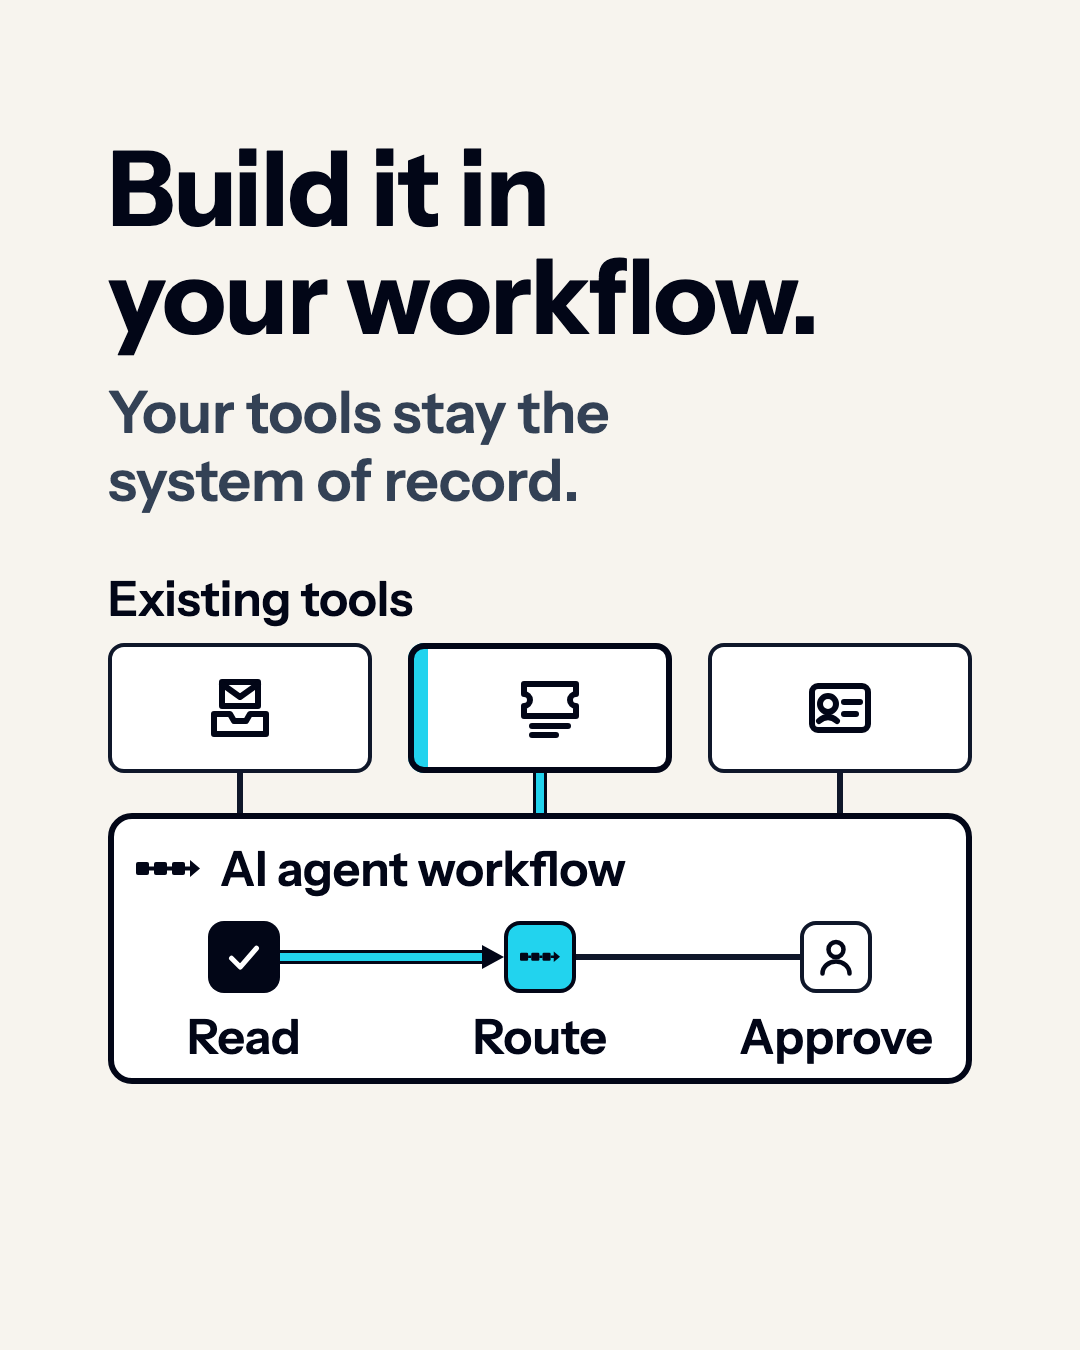
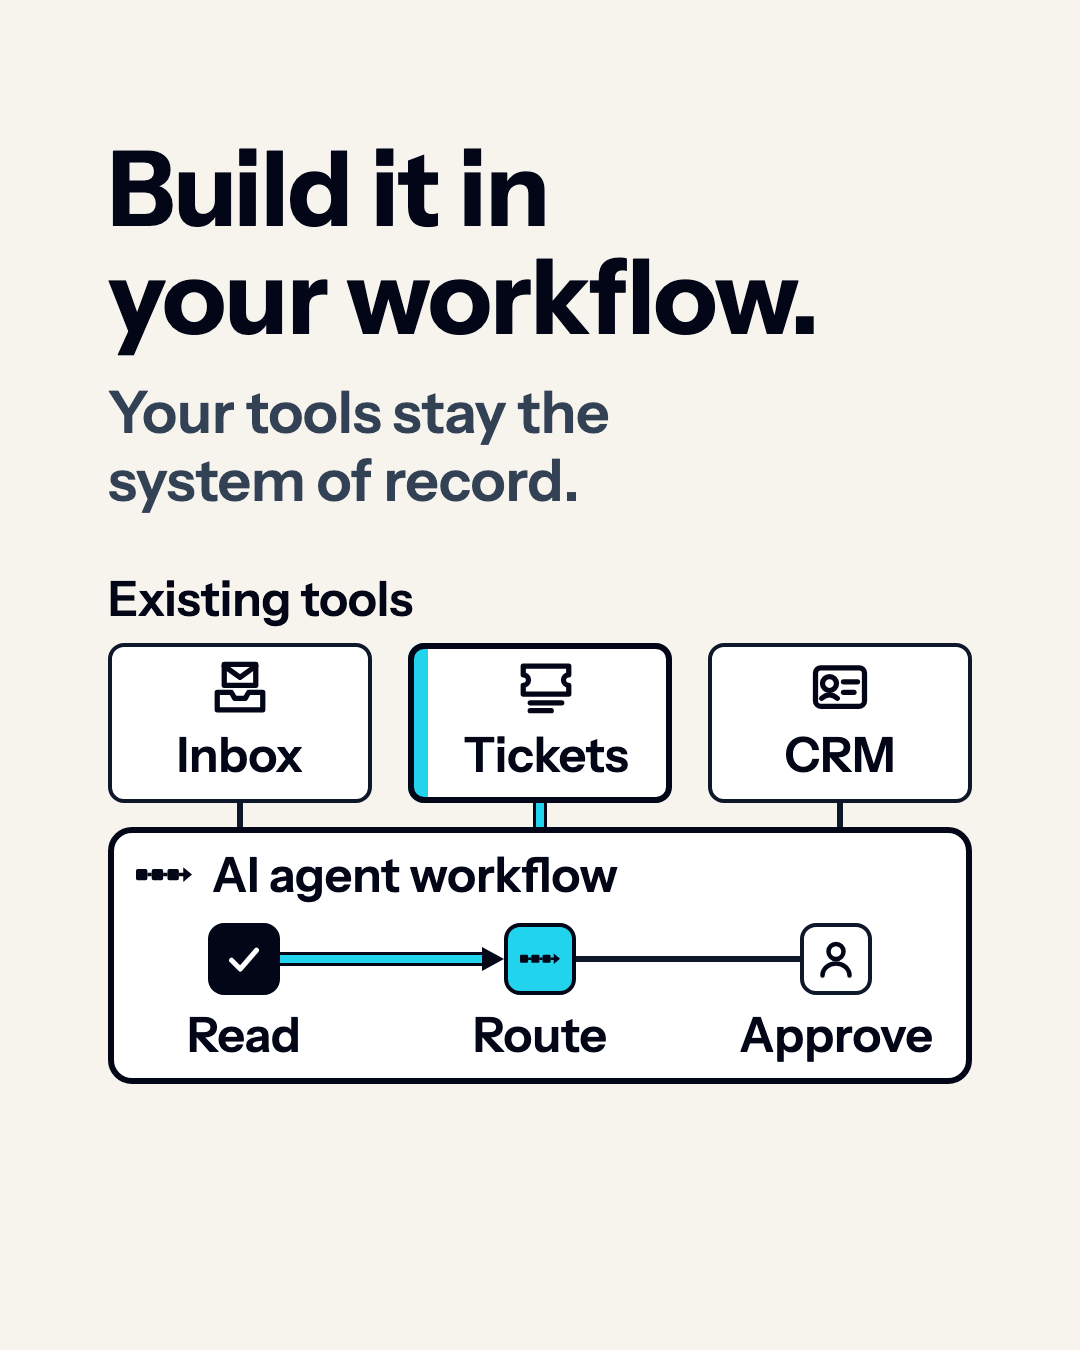
feat(eval): CRO-6814 apply optional finish-gate notes to beats 1, 4, 6, 7
Claude-Session: https://claude.ai/code/session_01UuCD5xwM5HC2Hw9vjdRFK7

diff --git a/content-motion/ai-agent-implementation-explainer-30s/index.html b/content-motion/ai-agent-implementation-explainer-30s/index.html
@@ -48,13 +48,14 @@ const BEATS = [
   { id: "c3g", k: "glyph", g: "crm", x: 136, y: 975, s: 64 },
   { id: "c3l", k: "text", st: "label", col: "ink", lines: ["CRM"], x: 216, y: 979, w: 304, h: 56 },
   { id: "c3w", k: "chip", state: "default", x: 528, y: 979, w: 56, h: 56 },
-  { id: "spine", k: "line", style: "manual", pts: [[630, 639], [630, 1007]], joins: ["a1", "a2", "a3", "link"] },
+  { id: "spine", k: "line", style: "manual", pts: [[630, 639], [630, 979]], joins: ["a1", "a2", "a3", "link"] },
   { id: "a1", k: "line", style: "manual", pts: [[630, 639], [612, 639]], arrow: true, joins: ["spine", "link"] },
   { id: "a2", k: "line", style: "manual", pts: [[630, 823], [612, 823]], arrow: true, joins: ["spine"] },
-  { id: "a3", k: "line", style: "manual", pts: [[630, 1007], [612, 1007]], arrow: true, joins: ["spine"] },
+  { id: "a3", k: "line", style: "manual", pts: [[630, 979], [612, 979]], arrow: true, joins: ["spine"] },
   { id: "link", k: "line", style: "manual", pts: [[630, 731], [738, 731]], joins: ["spine", "a1"] },
   { id: "p", k: "person", x: 738, y: 671, d: 120 },
   { id: "ag", k: "card", state: "active", x: 648, y: 899, w: 324, h: 180, at: 72, dur: 24 },
+  { id: "agc", k: "line", style: "agent", pts: [[648, 1039], [612, 1039]], arrow: true, at: 72, dur: 24, joins: ["c3", "ag"] },
   { id: "agg", k: "glyph", g: "chain", x: 692, y: 923, s: 56, at: 72, dur: 24 },
   { id: "agl", k: "text", st: "label", col: "ink", lines: ["AI agent"], x: 692, y: 993, w: 260, h: 56, at: 72, dur: 24 }
  ]},
@@ -107,26 +108,29 @@ const BEATS = [
   { id: "h", k: "text", st: "h1", col: "ink", lines: ["Build it in", "your workflow."], x: 108, y: 135, w: 864, h: 224 },
   { id: "s", k: "text", st: "support", col: "slate", lines: ["Your tools stay the", "system of record."], x: 108, y: 379, w: 864, h: 136, at: 18 },
   { id: "el", k: "text", st: "label", col: "ink", lines: ["Existing tools"], x: 108, y: 571, w: 864, h: 56 },
-  { id: "t1", k: "card", state: "default", r: 16, x: 108, y: 643, w: 264, h: 130 },
-  { id: "t1g", k: "glyph", g: "inbox", x: 208, y: 676, s: 64 },
-  { id: "t2", k: "card", state: "active", r: 16, x: 408, y: 643, w: 264, h: 130 },
-  { id: "t2g", k: "glyph", g: "ticket", x: 518, y: 676, s: 64 },
-  { id: "t3", k: "card", state: "default", r: 16, x: 708, y: 643, w: 264, h: 130 },
-  { id: "t3g", k: "glyph", g: "crm", x: 808, y: 676, s: 64 },
-  { id: "sb1", k: "line", style: "plain", pts: [[240, 773], [240, 813]] },
-  { id: "sb2", k: "line", style: "agent", pts: [[540, 773], [540, 813]] },
-  { id: "sb3", k: "line", style: "plain", pts: [[840, 773], [840, 813]] },
-  { id: "wf", k: "card", state: "strong", x: 108, y: 813, w: 864, h: 271 },
-  { id: "wfg", k: "glyph", g: "chain", x: 136, y: 837, s: 64 },
-  { id: "wfl", k: "text", st: "label", col: "ink", lines: ["AI agent workflow"], x: 220, y: 841, w: 700, h: 56 },
-  { id: "p12", k: "line", style: "agent", pts: [[280, 957], [504, 957]], arrow: true },
-  { id: "p23", k: "line", style: "plain", pts: [[576, 957], [800, 957]] },
-  { id: "s1", k: "step", v: "done", x: 208, y: 921, s: 72 },
-  { id: "s2", k: "step", v: "active", x: 504, y: 921, s: 72 },
-  { id: "s3", k: "step", v: "future", x: 800, y: 921, s: 72 },
-  { id: "s1l", k: "text", st: "label", col: "ink", al: "center", lines: ["Read"], x: 118, y: 1009, w: 252, h: 56 },
-  { id: "s2l", k: "text", st: "label", col: "ink", al: "center", lines: ["Route"], x: 414, y: 1009, w: 252, h: 56 },
-  { id: "s3l", k: "text", st: "label", col: "ink", al: "center", lines: ["Approve"], x: 710, y: 1009, w: 252, h: 56 }
+  { id: "t1", k: "card", state: "default", r: 16, x: 108, y: 643, w: 264, h: 160 },
+  { id: "t1g", k: "glyph", g: "inbox", x: 212, y: 659, s: 56 },
+  { id: "t1l", k: "text", st: "label", col: "ink", al: "center", lines: ["Inbox"], x: 128, y: 727, w: 224, h: 56 },
+  { id: "t2", k: "card", state: "active", r: 16, x: 408, y: 643, w: 264, h: 160 },
+  { id: "t2g", k: "glyph", g: "ticket", x: 518, y: 659, s: 56 },
+  { id: "t2l", k: "text", st: "label", col: "ink", al: "center", lines: ["Tickets"], x: 436, y: 727, w: 220, h: 56 },
+  { id: "t3", k: "card", state: "default", r: 16, x: 708, y: 643, w: 264, h: 160 },
+  { id: "t3g", k: "glyph", g: "crm", x: 812, y: 659, s: 56 },
+  { id: "t3l", k: "text", st: "label", col: "ink", al: "center", lines: ["CRM"], x: 728, y: 727, w: 224, h: 56 },
+  { id: "sb1", k: "line", style: "plain", pts: [[240, 803], [240, 827]] },
+  { id: "sb2", k: "line", style: "agent", pts: [[540, 803], [540, 827]] },
+  { id: "sb3", k: "line", style: "plain", pts: [[840, 803], [840, 827]] },
+  { id: "wf", k: "card", state: "strong", x: 108, y: 827, w: 864, h: 257 },
+  { id: "wfg", k: "glyph", g: "chain", x: 136, y: 847, s: 56 },
+  { id: "wfl", k: "text", st: "label", col: "ink", lines: ["AI agent workflow"], x: 212, y: 847, w: 700, h: 56 },
+  { id: "p12", k: "line", style: "agent", pts: [[280, 959], [504, 959]], arrow: true },
+  { id: "p23", k: "line", style: "plain", pts: [[576, 959], [800, 959]] },
+  { id: "s1", k: "step", v: "done", x: 208, y: 923, s: 72 },
+  { id: "s2", k: "step", v: "active", x: 504, y: 923, s: 72 },
+  { id: "s3", k: "step", v: "future", x: 800, y: 923, s: 72 },
+  { id: "s1l", k: "text", st: "label", col: "ink", al: "center", lines: ["Read"], x: 118, y: 1007, w: 252, h: 56 },
+  { id: "s2l", k: "text", st: "label", col: "ink", al: "center", lines: ["Route"], x: 414, y: 1007, w: 252, h: 56 },
+  { id: "s3l", k: "text", st: "label", col: "ink", al: "center", lines: ["Approve"], x: 710, y: 1007, w: 252, h: 56 }
  ]},
  { n: 5, start: 900, end: 1140, mid: 1020, blocks: [
   { id: "h", k: "text", st: "h1", col: "ink", lines: ["Test it on", "real work."], x: 108, y: 135, w: 864, h: 224 },
@@ -153,58 +157,58 @@ const BEATS = [
   { id: "h", k: "text", st: "h1", col: "ink", lines: ["Live in"], x: 108, y: 135, w: 864, h: 108 },
   { id: "hx", k: "text", st: "h1xl", col: "ink", lines: ["2 to 6", "weeks."], x: 108, y: 251, w: 864, h: 368 },
   { id: "s", k: "text", st: "support", col: "slate", lines: ["One process, tested", "before launch."], x: 108, y: 651, w: 864, h: 136, at: 18 },
-  { id: "gl", k: "pill", fill: "accent", stroke: "ink", sw: 4, x: 646, y: 856, w: 220, h: 80 },
-  { id: "glt", k: "text", st: "label", col: "ink", al: "center", lines: ["Go live"], x: 662, y: 868, w: 188, h: 56 },
+  { id: "gl", k: "pill", fill: "accent", stroke: "ink", sw: 4, x: 676, y: 856, w: 220, h: 80 },
+  { id: "glt", k: "text", st: "label", col: "ink", al: "center", lines: ["Go live"], x: 692, y: 868, w: 188, h: 56 },
   { id: "rail", k: "rail", x: 108, y: 974, w: 864, h: 12, under: true },
-  { id: "win", k: "window", x: 540, y: 970, w: 432, h: 20, under: true },
-  { id: "k1", k: "tick", x: 537, y: 950, w: 6, h: 60 },
+  { id: "win", k: "window", x: 600, y: 970, w: 372, h: 20, under: true },
+  { id: "k1", k: "tick", x: 597, y: 950, w: 6, h: 60 },
   { id: "k2", k: "tick", x: 966, y: 950, w: 6, h: 60 },
   { id: "g1l", k: "text", st: "label", col: "ink", lines: ["Audit"], x: 108, y: 880, w: 150, h: 56 },
-  { id: "g2l", k: "text", st: "label", col: "ink", lines: ["Build"], x: 268, y: 880, w: 150, h: 56 },
-  { id: "g3l", k: "text", st: "label", col: "ink", lines: ["Test"], x: 428, y: 880, w: 104, h: 56 },
+  { id: "g2l", k: "text", st: "label", col: "ink", lines: ["Build"], x: 296, y: 880, w: 150, h: 56 },
+  { id: "g3l", k: "text", st: "label", col: "ink", lines: ["Test"], x: 474, y: 880, w: 104, h: 56 },
   { id: "g1", k: "stage", g: "check", x: 108, y: 944, done: true },
-  { id: "g2", k: "stage", g: "chain", x: 268, y: 944, done: true },
-  { id: "g3", k: "stage", g: "person", x: 428, y: 944, done: true },
-  { id: "g4", k: "stage", g: "flag", x: 720, y: 944, live: true },
-  { id: "w2", k: "text", st: "label", col: "ink", al: "center", lines: ["Week 2"], x: 450, y: 1028, w: 180, h: 56 },
+  { id: "g2", k: "stage", g: "chain", x: 296, y: 944, done: true },
+  { id: "g3", k: "stage", g: "person", x: 474, y: 944, done: true },
+  { id: "g4", k: "stage", g: "flag", x: 750, y: 944, live: true },
+  { id: "w2", k: "text", st: "label", col: "ink", al: "center", lines: ["Week 2"], x: 510, y: 1028, w: 180, h: 56 },
   { id: "w6", k: "text", st: "label", col: "ink", al: "right", lines: ["Week 6"], x: 792, y: 1028, w: 180, h: 56 }
  ]},
  { n: 7, start: 1380, end: 1560, mid: 1470, blocks: [
   { id: "h", k: "text", st: "h1", col: "ink", lines: ["The agent", "handles the", "repeatable work."], x: 108, y: 135, w: 864, h: 332 },
   { id: "s", k: "text", st: "support", col: "slate", lines: ["Your team stays in control."], x: 108, y: 487, w: 864, h: 68, at: 18 },
-  { id: "hl", k: "text", st: "label", col: "slate", lines: ["By hand"], x: 108, y: 587, w: 420, h: 56 },
-  { id: "hr", k: "text", st: "label", col: "ink", lines: ["AI agent"], x: 552, y: 587, w: 420, h: 56 },
-  { id: "l1", k: "card", state: "dim", r: 16, x: 108, y: 671, w: 420, h: 88 },
-  { id: "l1p", k: "person", x: 132, y: 691, d: 48, dim: true },
-  { id: "l1t", k: "text", st: "label", col: "slate", lines: ["Draft"], x: 196, y: 687, w: 300, h: 56 },
-  { id: "lm1", k: "line", style: "manual", pts: [[156, 759], [156, 775]], short: true },
-  { id: "l2", k: "card", state: "dim", r: 16, x: 108, y: 775, w: 420, h: 88 },
-  { id: "l2p", k: "person", x: 132, y: 795, d: 48, dim: true },
-  { id: "l2t", k: "text", st: "label", col: "slate", lines: ["Route"], x: 196, y: 791, w: 300, h: 56 },
-  { id: "lm2", k: "line", style: "manual", pts: [[156, 863], [156, 879]], short: true },
-  { id: "l3", k: "card", state: "dim", r: 16, x: 108, y: 879, w: 420, h: 88 },
-  { id: "l3p", k: "person", x: 132, y: 899, d: 48, dim: true },
-  { id: "l3t", k: "text", st: "label", col: "slate", lines: ["Update"], x: 196, y: 895, w: 300, h: 56 },
-  { id: "lm3", k: "line", style: "manual", pts: [[156, 967], [156, 983]], short: true },
-  { id: "l4", k: "card", state: "dim", r: 16, x: 108, y: 983, w: 420, h: 88 },
-  { id: "l4p", k: "person", x: 132, y: 1003, d: 48, dim: true },
-  { id: "l4t", k: "text", st: "label", col: "slate", lines: ["Approve"], x: 196, y: 999, w: 300, h: 56 },
-  { id: "r1", k: "card", state: "active", r: 16, x: 552, y: 671, w: 420, h: 88 },
-  { id: "r1g", k: "glyph", g: "chain", x: 596, y: 691, s: 48 },
-  { id: "r1t", k: "text", st: "label", col: "ink", lines: ["Draft"], x: 660, y: 687, w: 290, h: 56 },
-  { id: "rm1", k: "line", style: "agent", pts: [[620, 759], [620, 775]] },
-  { id: "r2", k: "card", state: "active", r: 16, x: 552, y: 775, w: 420, h: 88 },
-  { id: "r2g", k: "glyph", g: "chain", x: 596, y: 795, s: 48 },
-  { id: "r2t", k: "text", st: "label", col: "ink", lines: ["Route"], x: 660, y: 791, w: 290, h: 56 },
-  { id: "rm2", k: "line", style: "agent", pts: [[620, 863], [620, 879]] },
-  { id: "r3", k: "card", state: "active", r: 16, x: 552, y: 879, w: 420, h: 88 },
-  { id: "r3g", k: "glyph", g: "chain", x: 596, y: 899, s: 48 },
-  { id: "r3t", k: "text", st: "label", col: "ink", lines: ["Update"], x: 660, y: 895, w: 290, h: 56 },
-  { id: "rm3", k: "line", style: "agent", pts: [[620, 967], [620, 983]] },
-  { id: "r4", k: "card", state: "approved", r: 16, x: 552, y: 983, w: 420, h: 88 },
-  { id: "r4p", k: "person", x: 596, y: 1003, d: 48 },
-  { id: "r4t", k: "text", st: "label", col: "ink", lines: ["Approve"], x: 660, y: 999, w: 210, h: 56 },
-  { id: "r4b", k: "badge", x: 888, y: 995 }
+  { id: "hl", k: "text", st: "label", col: "slate", lines: ["By hand"], x: 108, y: 603, w: 420, h: 56 },
+  { id: "hr", k: "text", st: "label", col: "ink", lines: ["AI agent"], x: 552, y: 603, w: 420, h: 56 },
+  { id: "l1", k: "card", state: "dim", r: 16, x: 108, y: 683, w: 420, h: 88 },
+  { id: "l1p", k: "person", x: 132, y: 703, d: 48, dim: true },
+  { id: "l1t", k: "text", st: "label", col: "slate", lines: ["Draft"], x: 196, y: 699, w: 300, h: 56 },
+  { id: "lm1", k: "line", style: "manual", pts: [[156, 771], [156, 787]], short: true },
+  { id: "l2", k: "card", state: "dim", r: 16, x: 108, y: 787, w: 420, h: 88 },
+  { id: "l2p", k: "person", x: 132, y: 807, d: 48, dim: true },
+  { id: "l2t", k: "text", st: "label", col: "slate", lines: ["Route"], x: 196, y: 803, w: 300, h: 56 },
+  { id: "lm2", k: "line", style: "manual", pts: [[156, 875], [156, 891]], short: true },
+  { id: "l3", k: "card", state: "dim", r: 16, x: 108, y: 891, w: 420, h: 88 },
+  { id: "l3p", k: "person", x: 132, y: 911, d: 48, dim: true },
+  { id: "l3t", k: "text", st: "label", col: "slate", lines: ["Update"], x: 196, y: 907, w: 300, h: 56 },
+  { id: "lm3", k: "line", style: "manual", pts: [[156, 979], [156, 995]], short: true },
+  { id: "l4", k: "card", state: "dim", r: 16, x: 108, y: 995, w: 420, h: 88 },
+  { id: "l4p", k: "person", x: 132, y: 1015, d: 48, dim: true },
+  { id: "l4t", k: "text", st: "label", col: "slate", lines: ["Approve"], x: 196, y: 1011, w: 300, h: 56 },
+  { id: "r1", k: "card", state: "active", r: 16, x: 552, y: 683, w: 420, h: 88 },
+  { id: "r1g", k: "glyph", g: "chain", x: 596, y: 703, s: 48 },
+  { id: "r1t", k: "text", st: "label", col: "ink", lines: ["Draft"], x: 660, y: 699, w: 290, h: 56 },
+  { id: "rm1", k: "line", style: "agent", pts: [[620, 771], [620, 787]] },
+  { id: "r2", k: "card", state: "active", r: 16, x: 552, y: 787, w: 420, h: 88 },
+  { id: "r2g", k: "glyph", g: "chain", x: 596, y: 807, s: 48 },
+  { id: "r2t", k: "text", st: "label", col: "ink", lines: ["Route"], x: 660, y: 803, w: 290, h: 56 },
+  { id: "rm2", k: "line", style: "agent", pts: [[620, 875], [620, 891]] },
+  { id: "r3", k: "card", state: "active", r: 16, x: 552, y: 891, w: 420, h: 88 },
+  { id: "r3g", k: "glyph", g: "chain", x: 596, y: 911, s: 48 },
+  { id: "r3t", k: "text", st: "label", col: "ink", lines: ["Update"], x: 660, y: 907, w: 290, h: 56 },
+  { id: "rm3", k: "line", style: "agent", pts: [[620, 979], [620, 995]] },
+  { id: "r4", k: "card", state: "approved", r: 16, x: 552, y: 995, w: 420, h: 88 },
+  { id: "r4p", k: "person", x: 596, y: 1015, d: 48 },
+  { id: "r4t", k: "text", st: "label", col: "ink", lines: ["Approve"], x: 660, y: 1011, w: 210, h: 56 },
+  { id: "r4b", k: "badge", x: 888, y: 1007 }
  ]},
  { n: 8, start: 1560, end: 1800, mid: 1680, blocks: [
   { id: "h", k: "text", st: "h1", col: "ink", lines: ["AI Agent", "Implementation"], x: 108, y: 135, w: 864, h: 224 },

diff --git a/content-motion/ai-agent-implementation-explainer-30s/DESIGN.md b/content-motion/ai-agent-implementation-explainer-30s/DESIGN.md
@@ -323,3 +323,11 @@ These labels are additions to the storyboard's labels, made to answer three revi
 - Beat 6 names the first three stage tiles "Audit", "Build" and "Test" (the existing "Go live" pill names the fourth). The three tiles are spaced 160 px apart so the labels do not run together at phone size. This supersedes the earlier note that the stages are shown without labels.
 - Beat 8 names the four timeline tiles "Audit", "Build", "Test" and "Go live" under the rail.
 - Beat 5 layout: the work chips are 216 px wide and the review card is 396 px wide, so the "AI agent" label has clear space on both sides.
+
+### 2026-10-29 finish-gate notes (beats 1, 4, 6, 7)
+
+- Beat 1: a short solid agent connector (accent core, ink casing, arrowhead) now joins the "AI agent" card to the CRM card at y 1039, so "inside your tools" reads. The dashed manual spine now ends at y 979 (its CRM hand-off arrow moved up from y 1007) so the two line styles never touch.
+- Beat 4: the three tool tiles are named "Inbox", "Tickets" and "CRM" (48 px labels under 56 px glyphs). These labels are an addition to the storyboard's labels; each tool was already named in beats 1 and 2. This supersedes the earlier note that 48 px labels would not fit. Tiles grow to 160 px; stubs shorten to 24 px; the workflow card is 257 px tall and still ends at y 1084.
+- Beat 6: the stage tiles are now 188 px apart (label gaps about 64 px, was about 37 px). To make room, the Week 2 tick and the go-live window start at x 600 (was 540), and the flag tile and "Go live" pill move right with the window. This supersedes the earlier 160 px spacing note.
+- Beat 7: the "By hand" and "AI agent" headers sit 16 px lower (y 603) and the card stack starts at y 683, 24 px under the headers; the four cards keep 16 px gaps and end at y 1083.
+- Beat 8: no still change; the booking link belongs in the post caption.
